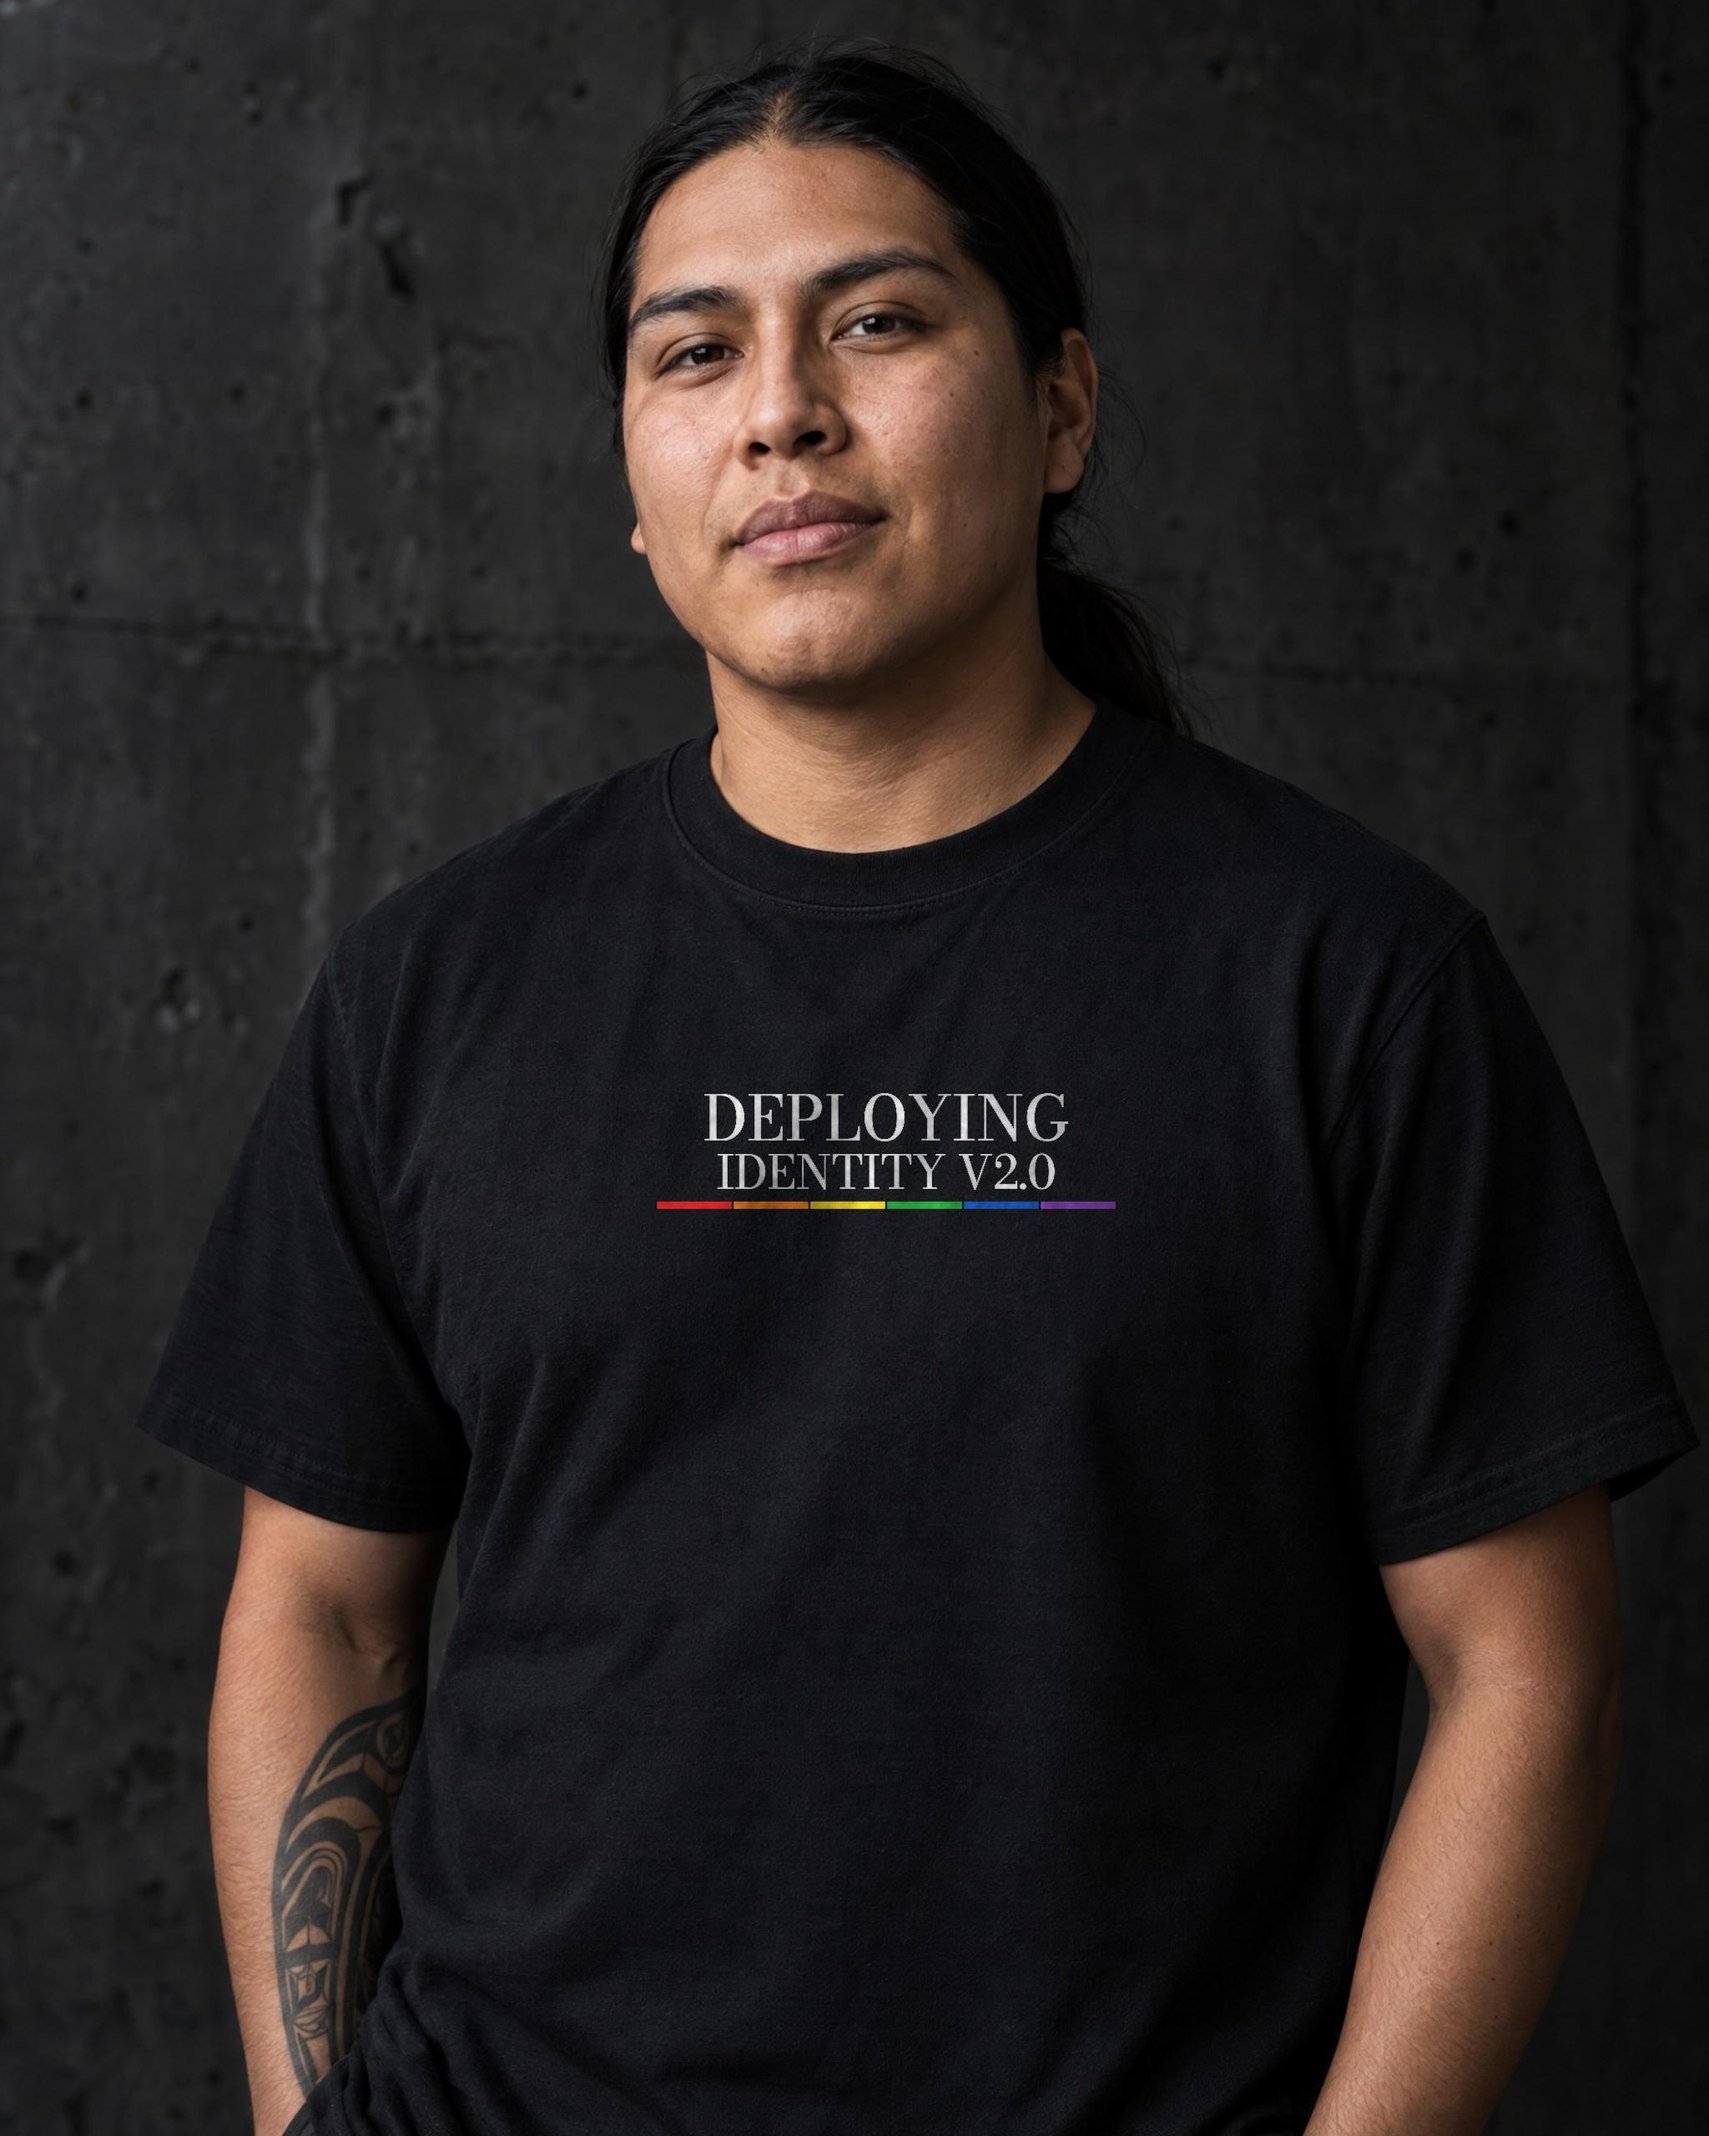
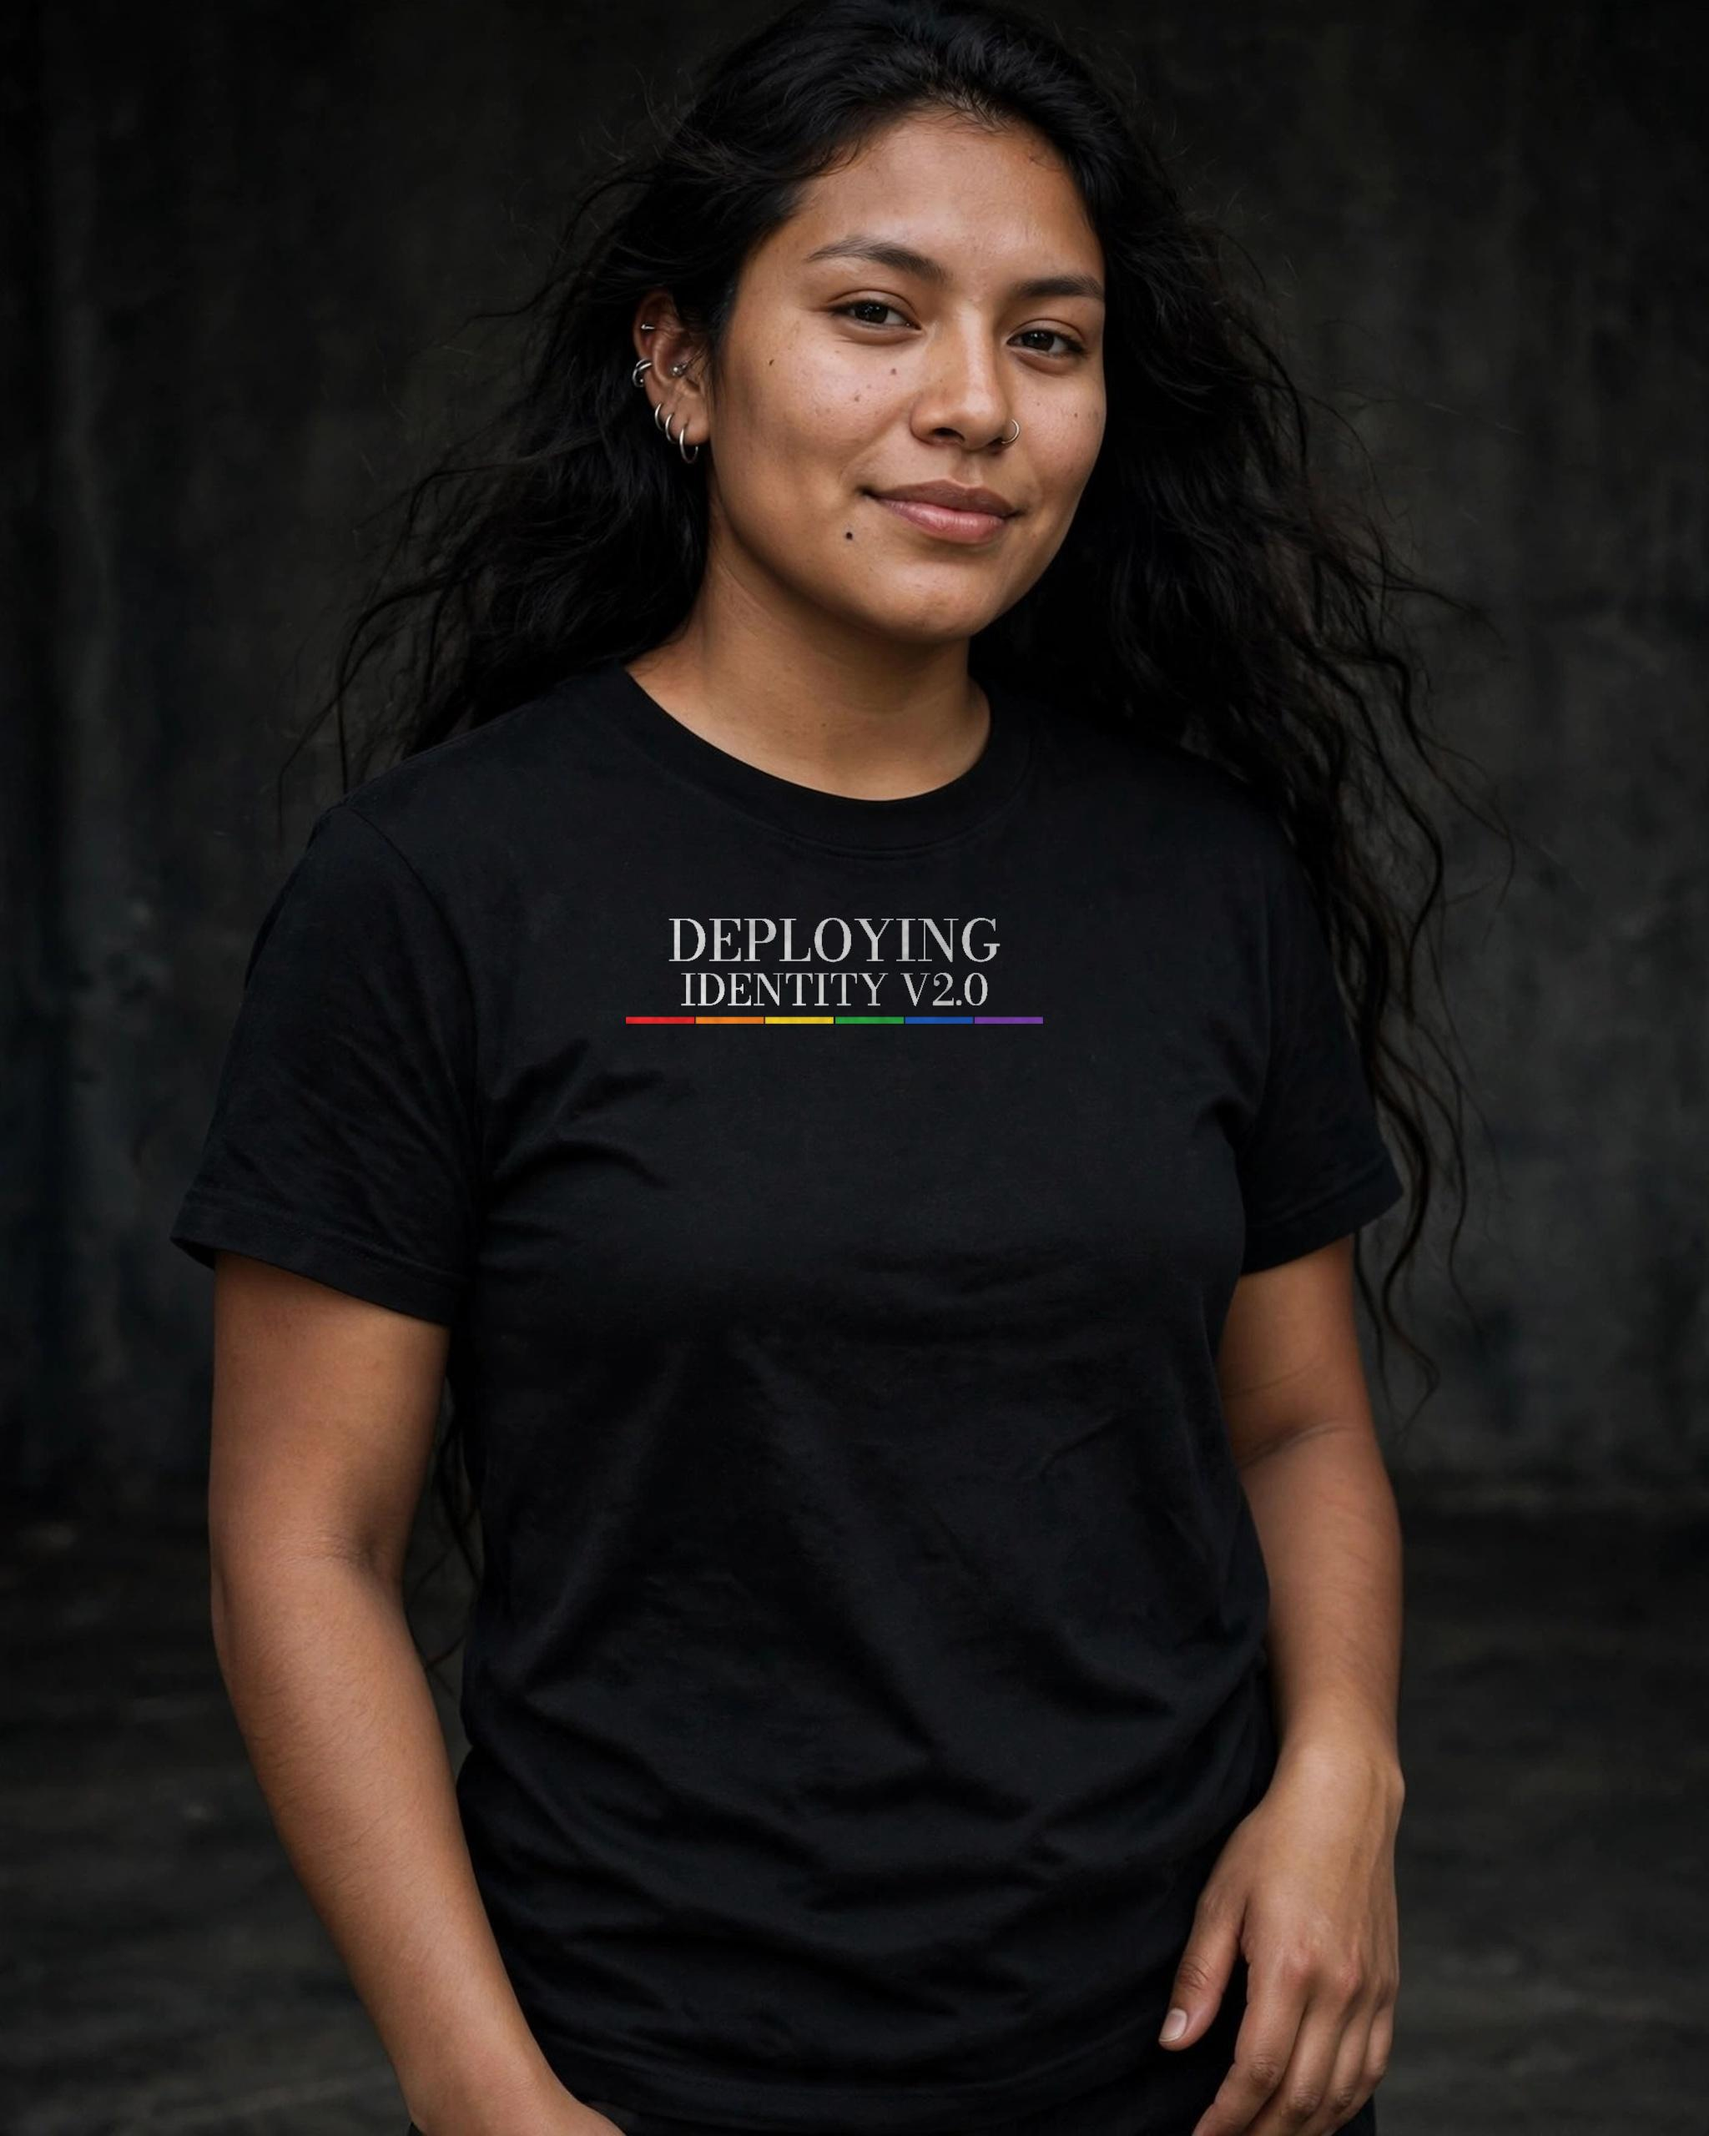
Add remaining 7 composited model photos (live on Shopify)
Claude-Session: https://claude.ai/code/session_01JPAUNLDNX8HMQcraNSeJ4o

diff --git a/CHANGELOG.md b/CHANGELOG.md
@@ -177,3 +177,5 @@ Why: the Printify publish had overwritten Shopify prices, images and copy. Old 4
 2026-10-04: Manus ran out of credits before the cap angles and 10 model photos; added handoff/MODEL_PROMPTS_2026-10-04.md (10 standalone prompts for any free image tool plus manual cap-angle steps). Why: unblock the model photos without Manus credits.
 2026-10-04: Added --no-heal to tools/composite_print.py; composited real prints onto 4 new multiracial blank-garment model photos (Not A Bug tee, Deploying crewneck, 404 tote, Deploying tee); first three live as slot 2 (tote now has a model shot), Deploying tee held. Why: Maurice wants a multiracial cast with prints sitting in the fabric.
 2026-10-04: Added handoff/MANUS_BRIEF_MODELS_REMAINING_2026-10-04.md (7 blank-garment model photos incl. a replacement Indigenous model, no cultural-style tattoos). Why: finish the multiracial cast.
+
+2026/10/05: Live model shots swapped for 404, Code It, Off The Clock, Please Hold and Deploying tees, hoodie and cap (multiracial set, real prints composited). Old placeholder model shots deleted.
